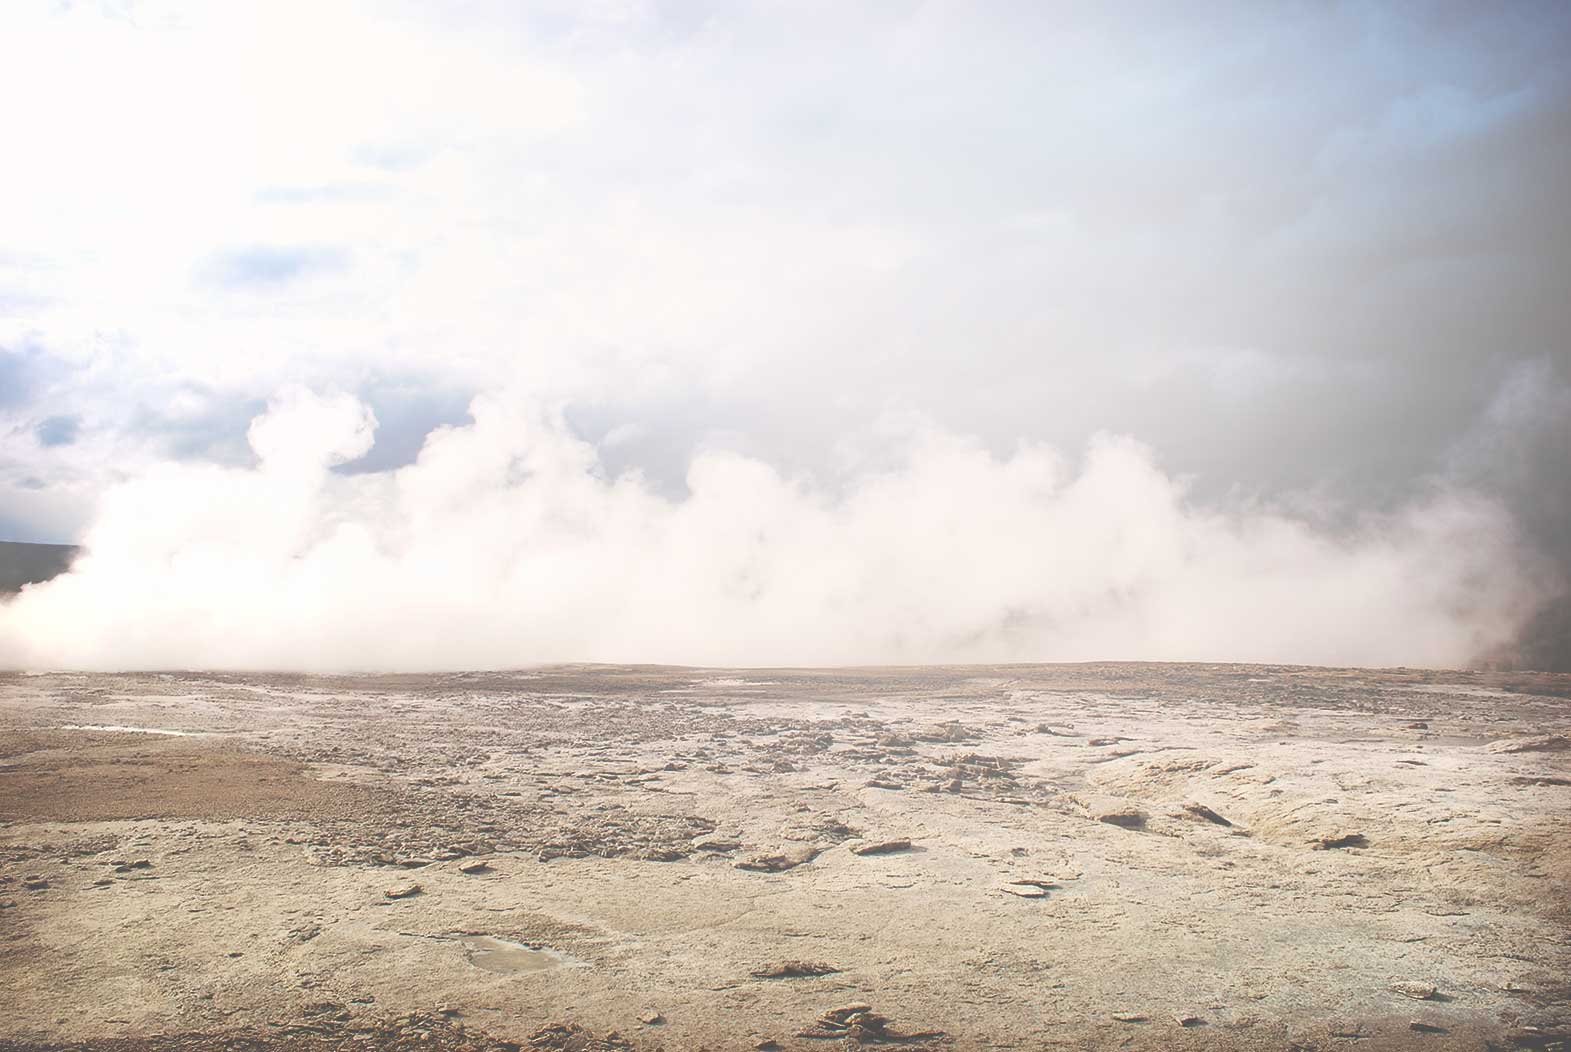
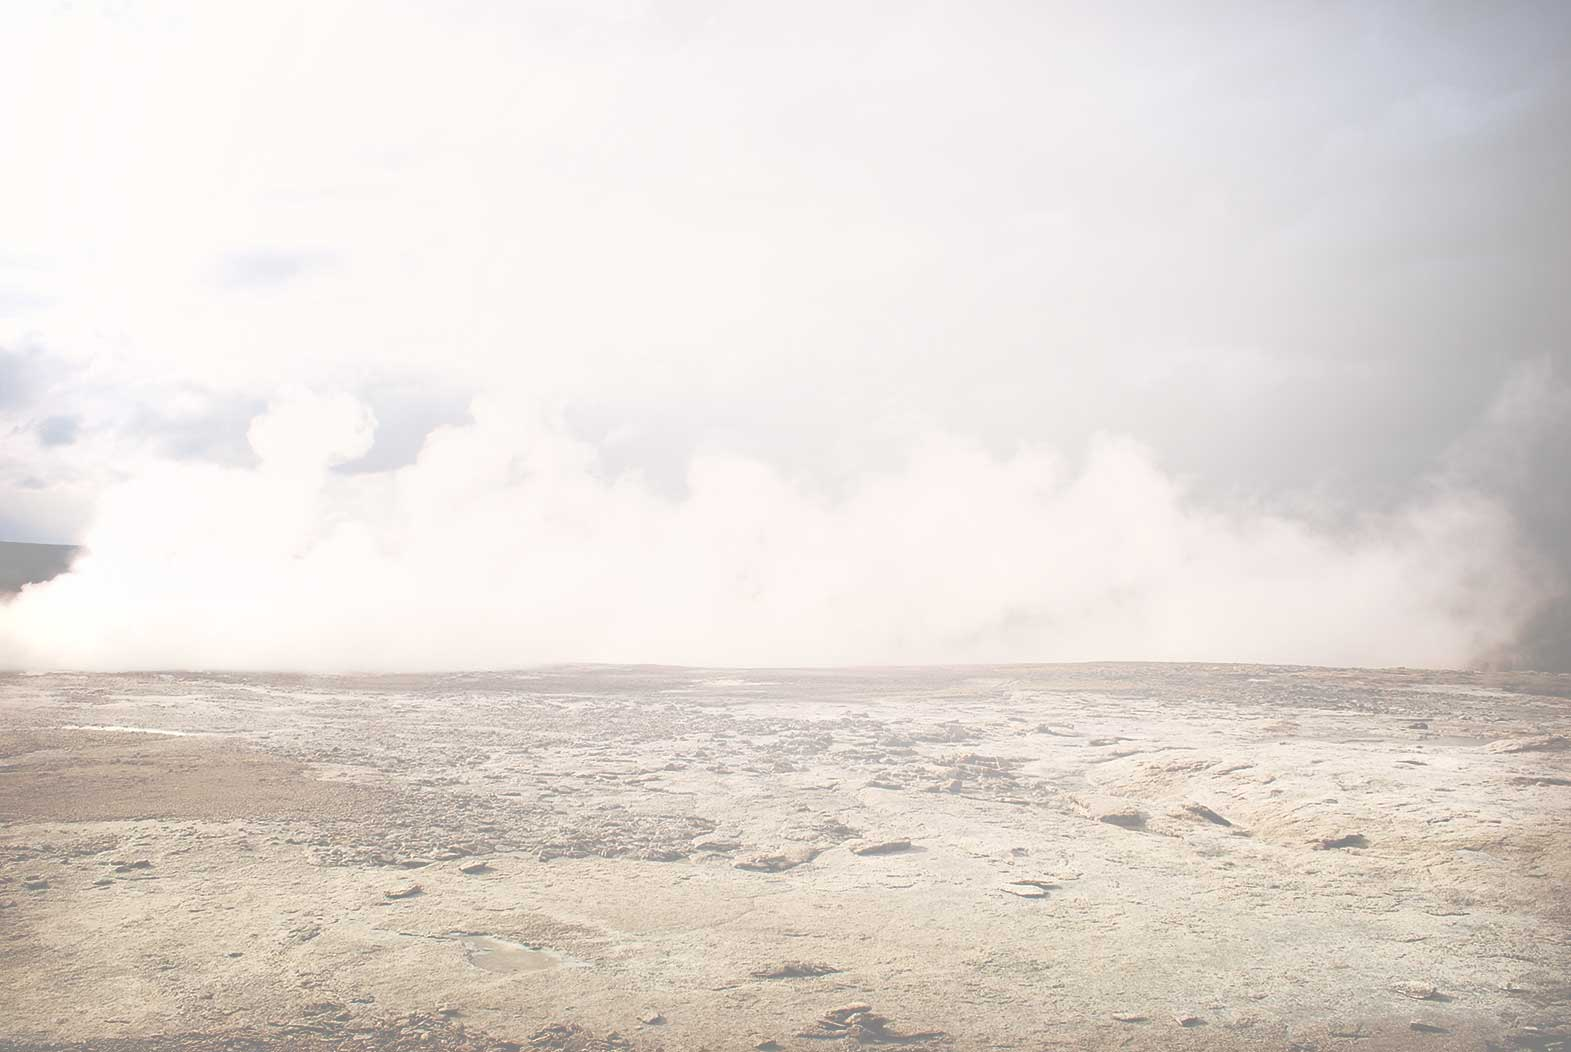
Updates

diff --git a/css/main.css b/css/main.css
@@ -57,9 +57,7 @@
 * { box-sizing: border-box; }
 
 body {
-    width: 100%;
-    height: 100%;
-    background: url(../assets/img/yellowstone.jpg) no-repeat #cbc5be;
+    background: url(../assets/img/yellowstone.jpg) no-repeat #E9E6E2;
     background-size: cover;
     background-position: top center;
 }
